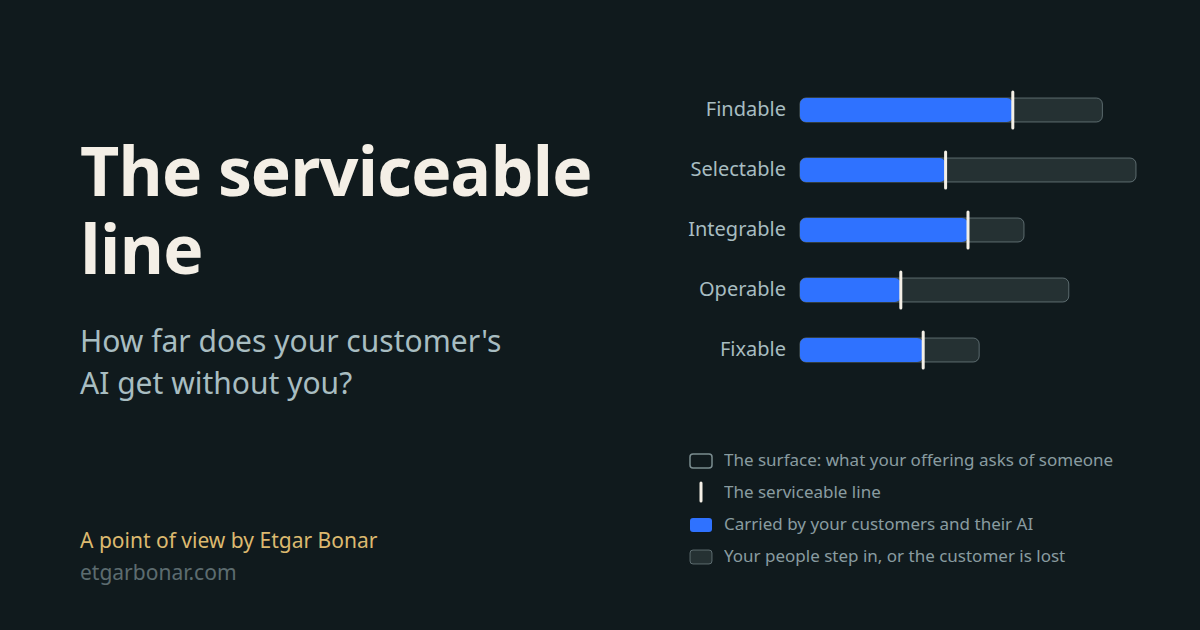
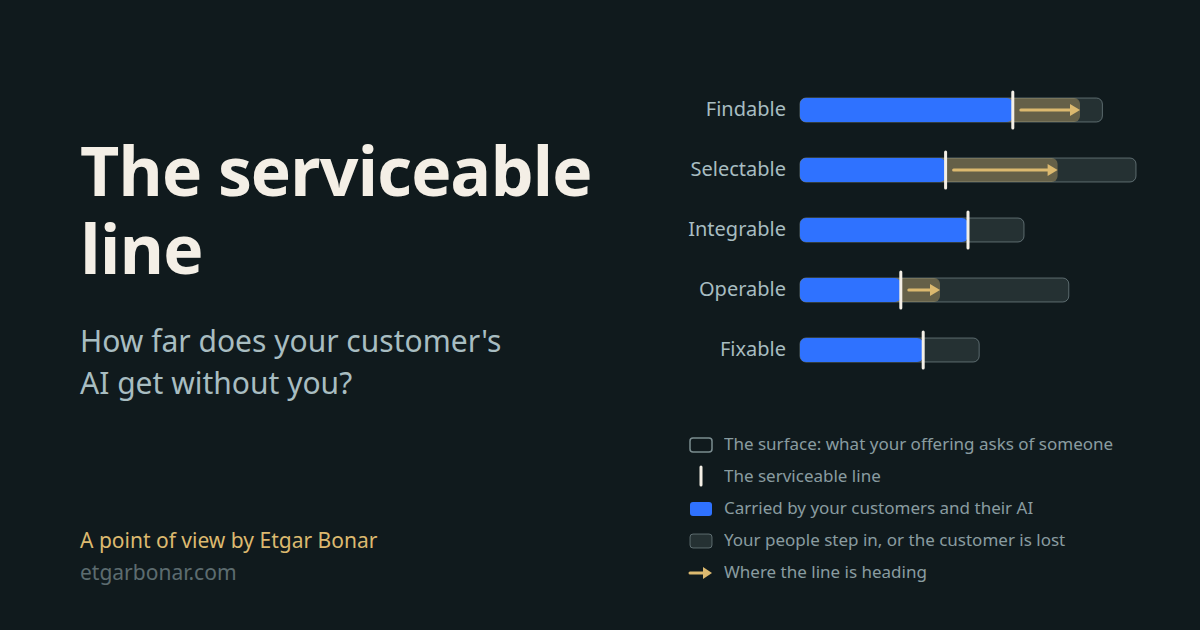
Serviceable line: question-only hero with the payoff line and gold growth
Main page hero: the full definition leaves the hero (Etgar: the question and the
definition repeated each other). The hero is now the title, the question and one
payoff line, "Move the line out, and you can win customers you used to walk away
from." The article opens with the first two sentences of the definition.
Gold arrows (where the line is heading) now on the main hero and the main social
card, on Findable and Selectable plus a small one on Operable (Etgar, 2026-10-05);
the shapes hero gets the same Operable arrow from the shared generator. Legend
item added, chart caption rewritten in plain words, card ?v=11 with updated alt.

diff --git a/serviceable-line/index.html b/serviceable-line/index.html
@@ -25,12 +25,12 @@
   <meta property="og:title" content="The Serviceable Line: How Far Does Your Customer's AI Get Without You?">
   <meta property="og:description" content="How far does your customer's AI get without you? The serviceable line is how far your customers, and increasingly their AI, get with your offering on their own.">
   <meta property="og:url" content="https://etgarbonar.com/serviceable-line/">
-  <meta property="og:image" content="https://etgarbonar.com/assets/serviceable-line-card.png?v=10">
-  <meta property="og:image:alt" content="The Serviceable Line: How far does your customer's AI get without you? Five bars, one per layer: Findable, Selectable, Integrable, Operable and Fixable, each as long as what the offering asks on that layer. Blue is how far your customers and their AI get on each; a white mark at the end of the blue is the serviceable line; past it, your people step in or the customer is lost. A point of view by Etgar Bonar">
+  <meta property="og:image" content="https://etgarbonar.com/assets/serviceable-line-card.png?v=11">
+  <meta property="og:image:alt" content="The Serviceable Line: How far does your customer's AI get without you? Five bars, one per layer: Findable, Selectable, Integrable, Operable and Fixable, each as long as what the offering asks on that layer. Blue is how far your customers and their AI get on each; a white mark at the end of the blue is the serviceable line; past it, your people step in or the customer is lost. Gold arrows on Findable, Selectable and Operable show where the line is heading. A point of view by Etgar Bonar">
   <meta name="twitter:card" content="summary_large_image">
   <meta name="twitter:title" content="The Serviceable Line: How Far Does Your Customer's AI Get Without You?">
   <meta name="twitter:description" content="How far does your customer's AI get without you? The serviceable line is how far your customers, and increasingly their AI, get with your offering on their own.">
-  <meta name="twitter:image" content="https://etgarbonar.com/assets/serviceable-line-card.png?v=10">
+  <meta name="twitter:image" content="https://etgarbonar.com/assets/serviceable-line-card.png?v=11">
   <script type="application/ld+json">
   {
     "@context": "https://schema.org",
@@ -85,28 +85,37 @@
         <div class="article-heading">
           <p class="eyebrow light">A point of view by Etgar Bonar</p>
           <h1>The serviceable line <span class="h1-sub">How far does your customer's AI get without you?</span></h1>
-          <p class="article-deck">The serviceable line is how far your customers, and increasingly their AI, get with your offering on their own. Past that point, either one of your people has to step in, or you lose the customer, often without seeing why: left out of an AI's answer, judged on a smaller version of what you offer, or quietly gone after the trial or the first bill. Move the line out, and you can win customers you used to walk away from, and stop the losses you never measured.</p>
+          <p class="article-deck">Move the line out, and you can win customers you used to walk away from.</p>
           <p class="article-meta">Published <time datetime="2026-08-29">29 August 2026</time> · Updated <time datetime="2026-10-05">5 October 2026</time> · 8 minute read</p>
         </div>
         <figure class="line-diagram">
 <!-- shapes:main-hero:start -->
-          <svg viewBox="0 0 600 320" role="img" aria-label="An illustrative offering, one bar per layer. Findable: long surface, most of it carried alone; Selectable: long surface, about half of it carried alone; Integrable: long surface, most of it carried alone; Operable: long surface, about half of it carried alone; Fixable: medium surface, most of it carried alone. A white mark on each bar is the serviceable line.">
+          <svg viewBox="0 0 600 320" role="img" aria-label="An illustrative offering, one bar per layer. Findable: long surface, most of it carried alone; Selectable: long surface, about half of it carried alone; Integrable: long surface, most of it carried alone; Operable: long surface, about half of it carried alone; Fixable: medium surface, most of it carried alone. A white mark on each bar is the serviceable line. Gold arrows on Findable, Selectable and Operable show where the line is heading.">
             <text x="118" y="42" text-anchor="end" class="ld-name">Findable</text>
             <rect x="132" y="25.0" width="399.6" height="22" rx="5.5" class="ld-bar-track"/>
+            <rect x="132" y="25.0" width="370.0" height="22" rx="5.5" class="ld-bar-gain"/>
             <rect x="132" y="25.0" width="281.2" height="22" rx="5.5" class="ld-bar-line"/>
             <line x1="413.2" y1="19.0" x2="413.2" y2="53.0" class="ld-bar-mark"/>
+            <line x1="421.2" y1="36" x2="492.0" y2="36" class="ld-bar-arrow"/>
+            <polygon points="502.0,36 492.0,30 492.0,42" class="ld-bar-arrowhead"/>
             <text x="118" y="104" text-anchor="end" class="ld-name">Selectable</text>
             <rect x="132" y="87.0" width="444.0" height="22" rx="5.5" class="ld-bar-track"/>
+            <rect x="132" y="87.0" width="340.4" height="22" rx="5.5" class="ld-bar-gain"/>
             <rect x="132" y="87.0" width="192.4" height="22" rx="5.5" class="ld-bar-line"/>
             <line x1="324.4" y1="81.0" x2="324.4" y2="115.0" class="ld-bar-mark"/>
+            <line x1="332.4" y1="98" x2="462.4" y2="98" class="ld-bar-arrow"/>
+            <polygon points="472.4,98 462.4,92 462.4,104" class="ld-bar-arrowhead"/>
             <text x="118" y="166" text-anchor="end" class="ld-name">Integrable</text>
             <rect x="132" y="149.0" width="296.0" height="22" rx="5.5" class="ld-bar-track"/>
             <rect x="132" y="149.0" width="222.0" height="22" rx="5.5" class="ld-bar-line"/>
             <line x1="354.0" y1="143.0" x2="354.0" y2="177.0" class="ld-bar-mark"/>
             <text x="118" y="228" text-anchor="end" class="ld-name">Operable</text>
             <rect x="132" y="211.0" width="355.2" height="22" rx="5.5" class="ld-bar-track"/>
+            <rect x="132" y="211.0" width="185.0" height="22" rx="5.5" class="ld-bar-gain"/>
             <rect x="132" y="211.0" width="133.2" height="22" rx="5.5" class="ld-bar-line"/>
             <line x1="265.2" y1="205.0" x2="265.2" y2="239.0" class="ld-bar-mark"/>
+            <line x1="273.2" y1="222" x2="307.0" y2="222" class="ld-bar-arrow"/>
+            <polygon points="317.0,222 307.0,216 307.0,228" class="ld-bar-arrowhead"/>
             <text x="118" y="290" text-anchor="end" class="ld-name">Fixable</text>
             <rect x="132" y="273.0" width="236.8" height="22" rx="5.5" class="ld-bar-track"/>
             <rect x="132" y="273.0" width="162.8" height="22" rx="5.5" class="ld-bar-line"/>
@@ -118,13 +127,15 @@
             <li class="ld-key-mark">The serviceable line</li>
             <li class="ld-key-line">Carried by your customers and their&nbsp;AI</li>
             <li class="ld-key-gap">Your people step in, or the customer is lost</li>
+            <li class="ld-key-move">Where the line is heading</li>
           </ul>
-          <p class="ld-note">Illustrative. Each bar is one layer: Findable, Selectable, Integrable, Operable, Fixable, as long as what this offering asks on that layer. Blue is how far your customers, and increasingly their AI, get with your offering on their own, and the white mark is the serviceable line. Past it, your people step in or the customer is lost. No two offerings ask the same: <a href="/serviceable-line/shapes/">see the shape of the line</a>.</p>
+          <p class="ld-note">Illustrative, for one example offering. Each bar is one layer (Findable, Selectable, Integrable, Operable, Fixable), and its length is how much work that layer takes. Blue is what your customers and their AI carry alone; the white mark is the serviceable line. Gold is where it is heading. Other offerings have different bars: <a href="/serviceable-line/shapes/">see six examples</a>.</p>
         </figure>
       </header>
 
       <div class="article-body">
-        <p class="lede">Customers have been getting further on their own for a decade: finding you, comparing you, connecting you, running the product, fixing it when it breaks. What is changing is who is doing it. Increasingly it is a machine. I spent most of those years on the seller's side of that shift, at Amazon, Taboola and Rapyd.</p>
+        <p class="lede">The serviceable line is how far your customers, and increasingly their AI, get with your offering on their own. Past that point, either one of your people has to step in, or you lose the customer, often without seeing why: left out of an AI's answer, judged on a smaller version of what you offer, or quietly gone after the trial or the first bill.</p>
+        <p>Customers have been getting further on their own for a decade: finding you, comparing you, connecting you, running the product, fixing it when it breaks. What is changing is who is doing it. Increasingly it is a machine. I spent most of those years on the seller's side of that shift, at Amazon, Taboola and Rapyd.</p>
         <p class="term-context"><em>Serviceable</em> as in serviceable available market: the demand a company can actually reach.</p>
         <p>Both sales-led and product-led motions are losing ground to this silent part of the journey. The company does not own the machine doing the work. It often cannot see the interaction. And rarely does one leader own whether the machine's picture of the company matches what the company actually is.</p>
 

diff --git a/serviceable-line/shapes/index.html b/serviceable-line/shapes/index.html
@@ -19,7 +19,7 @@
   <link rel="apple-touch-icon" href="/assets/icon-180.png">
   <meta property="og:type" content="article">
   <meta property="article:published_time" content="2026-10-03">
-  <meta property="article:modified_time" content="2026-10-04">
+  <meta property="article:modified_time" content="2026-10-05">
   <meta property="og:site_name" content="Etgar Bonar">
   <meta property="og:title" content="The Shape of the Serviceable Line: Not Every Offering Has Five Layers">
   <meta property="og:description" content="How far does your customer's AI get without you? The five layers are not the same size for every offering, so the serviceable line has a shape, and so does the work around it.">
@@ -42,7 +42,7 @@
         "description": "How far does your customer's AI get without you? The five layers are not the same size for every offering, so the serviceable line has a shape, and so does the work around it.",
         "inLanguage": "en",
         "datePublished": "2026-10-03",
-        "dateModified": "2026-10-04",
+        "dateModified": "2026-10-05",
         "author": {"@id": "https://etgarbonar.com/#etgar"},
         "publisher": {"@id": "https://etgarbonar.com/#etgar"},
         "isPartOf": {"@id": "https://etgarbonar.com/#website"},
@@ -77,7 +77,7 @@
         </div>
         <figure class="line-diagram shape-hero">
 <!-- shapes:hero:start -->
-          <svg viewBox="0 0 600 320" role="img" aria-label="An illustrative offering, one bar per layer. Findable: long surface, most of it carried alone; Selectable: long surface, about half of it carried alone; Integrable: long surface, most of it carried alone; Operable: long surface, about half of it carried alone; Fixable: medium surface, most of it carried alone. A white mark on each bar is the serviceable line. Gold arrows on Findable and Selectable show where the line is heading.">
+          <svg viewBox="0 0 600 320" role="img" aria-label="An illustrative offering, one bar per layer. Findable: long surface, most of it carried alone; Selectable: long surface, about half of it carried alone; Integrable: long surface, most of it carried alone; Operable: long surface, about half of it carried alone; Fixable: medium surface, most of it carried alone. A white mark on each bar is the serviceable line. Gold arrows on Findable, Selectable and Operable show where the line is heading.">
             <text x="118" y="42" text-anchor="end" class="ld-name">Findable</text>
             <rect x="132" y="25.0" width="399.6" height="22" rx="5.5" class="ld-bar-track"/>
             <rect x="132" y="25.0" width="370.0" height="22" rx="5.5" class="ld-bar-gain"/>
@@ -98,8 +98,11 @@
             <line x1="354.0" y1="143.0" x2="354.0" y2="177.0" class="ld-bar-mark"/>
             <text x="118" y="228" text-anchor="end" class="ld-name">Operable</text>
             <rect x="132" y="211.0" width="355.2" height="22" rx="5.5" class="ld-bar-track"/>
+            <rect x="132" y="211.0" width="185.0" height="22" rx="5.5" class="ld-bar-gain"/>
             <rect x="132" y="211.0" width="133.2" height="22" rx="5.5" class="ld-bar-line"/>
             <line x1="265.2" y1="205.0" x2="265.2" y2="239.0" class="ld-bar-mark"/>
+            <line x1="273.2" y1="222" x2="307.0" y2="222" class="ld-bar-arrow"/>
+            <polygon points="317.0,222 307.0,216 307.0,228" class="ld-bar-arrowhead"/>
             <text x="118" y="290" text-anchor="end" class="ld-name">Fixable</text>
             <rect x="132" y="273.0" width="236.8" height="22" rx="5.5" class="ld-bar-track"/>
             <rect x="132" y="273.0" width="162.8" height="22" rx="5.5" class="ld-bar-line"/>
@@ -113,7 +116,7 @@
             <li class="ld-key-gap">Your people step in, or the customer is lost</li>
             <li class="ld-key-move">Where the line is heading</li>
           </ul>
-          <p class="ld-note">Illustrative, on a shared 0 to 3 scale: the same offering as on the main page. A bar's length is what the offering asks on that layer. What matters is the grey on each bar, the gap, not which bar is longest. The gold arrows mark where the line is heading on Findable and Selectable.</p>
+          <p class="ld-note">Illustrative, on a shared 0 to 3 scale: the same offering as on the main page. A bar's length is what the offering asks on that layer. What matters is the grey on each bar, the gap, not which bar is longest. The gold arrows mark where the line is heading on Findable and Selectable, and a little on Operable, which moves last.</p>
         </figure>
       </header>
 

diff --git a/scripts/build-line-shapes.py b/scripts/build-line-shapes.py
@@ -53,13 +53,13 @@ GROWTH = [
 ]
 
 # The hero offering. Bar length is the surface on every hero, so the layers differ in length from the
-# first screen (Etgar, 2026-10-04). The main page hero and its social card stop there: surface, the
-# blue carried part and the white mark (the serviceable line). The shapes page hero adds gold arrows
-# for where the line is heading on Findable and Selectable (Etgar, 2026-10-03). The values do not fall steadily from top to bottom, so
+# first screen (Etgar, 2026-10-04). Both heroes and the main social card carry gold arrows for where the
+# line is heading: on Findable and Selectable (Etgar, 2026-10-03), plus a small one on Operable, which
+# moves last (Etgar, 2026-10-05). The values do not fall steadily from top to bottom, so
 # the five bars never read as a trend or a ranking.
 HERO_SURFACE = [2.7, 3.0, 2.0, 2.4, 1.6]
 HERO_LINE = [1.9, 1.3, 1.5, 0.9, 1.1]
-HERO_ARROWS = {0: 2.5, 1: 2.3}
+HERO_ARROWS = {0: 2.5, 1: 2.3, 3: 1.25}
 assert all(HERO_LINE[i] < v <= HERO_SURFACE[i] for i, v in HERO_ARROWS.items())
 SIMPLE = (HERO_SURFACE, HERO_LINE, HERO_LINE)
 FULL = (HERO_SURFACE, HERO_LINE, HERO_LINE)
@@ -174,7 +174,7 @@ def blocks():
             "growth": grid(GROWTH, "shape-grid shape-pair"),
         },
         MAIN_PAGE: {
-            "main-hero": svg("An illustrative offering", *SIMPLE, kind="hero"),
+            "main-hero": svg("An illustrative offering", *FULL, kind="hero", arrows=HERO_ARROWS),
         },
     }
 
@@ -191,17 +191,19 @@ def legend_row(x, y, kind, text):
         "gap": f'<rect x="{x}" y="{y - 12}" width="22" height="14" rx="3" fill="{MINT}" fill-opacity=".14" stroke="{MINT}" stroke-opacity=".45"/>',
         "surface": f'<rect x="{x}" y="{y - 12}" width="22" height="14" rx="3" fill="none" stroke="{MINT}" stroke-opacity=".7" stroke-width="1.5"/>',
         "mark": f'<line x1="{x + 11}" y1="{y - 15}" x2="{x + 11}" y2="{y + 3}" stroke="{PAPER}" stroke-width="3" stroke-linecap="round"/>',
+        "move": f'<line x1="{x}" y1="{y - 5}" x2="{x + 14}" y2="{y - 5}" stroke="{GOLD}" stroke-width="3" stroke-linecap="round"/><polygon points="{x + 22},{y - 5} {x + 13},{y - 11} {x + 13},{y + 1}" fill="{GOLD}"/>',
     }[kind]
     return f'  {swatch}\n  <text x="{x + 34}" y="{y}" {FONT} font-size="17" fill="{MINT}" opacity=".8">{text}</text>'
 
 
 def main_card():
-    rows = bar_rows(*SIMPLE, x0=800, y0=110, unit=112, step=60, h=24, style=CARD_STYLE)
+    rows = bar_rows(*FULL, x0=800, y0=110, unit=112, step=60, h=24, style=CARD_STYLE, arrows=HERO_ARROWS)
     body = "\n".join(["  " + r for r in rows] + [
-        legend_row(690, 466, "surface", "The surface: what your offering asks of someone"),
-        legend_row(690, 498, "mark", "The serviceable line"),
-        legend_row(690, 530, "line", "Carried by your customers and their AI"),
-        legend_row(690, 562, "gap", "Your people step in, or the customer is lost"),
+        legend_row(690, 450, "surface", "The surface: what your offering asks of someone"),
+        legend_row(690, 482, "mark", "The serviceable line"),
+        legend_row(690, 514, "line", "Carried by your customers and their AI"),
+        legend_row(690, 546, "gap", "Your people step in, or the customer is lost"),
+        legend_row(690, 578, "move", "Where the line is heading"),
         f'  <text x="80" y="196" {FONT} font-size="68" font-weight="700" letter-spacing="-1" fill="{PAPER}">The serviceable</text>',
         f'  <text x="80" y="274" {FONT} font-size="68" font-weight="700" letter-spacing="-1" fill="{PAPER}">line</text>',
         f'  <text x="80" y="352" {FONT} font-size="30" fill="{MINT}">How far does your customer\'s</text>',
@@ -212,7 +214,8 @@ def main_card():
     return card_svg("The serviceable line",
                     "Five bars, one per layer: Findable, Selectable, Integrable, Operable and Fixable, each as long as what the offering asks on that layer. Blue is how far your customers "
                     "and their AI get on each; a white mark at the end of the blue is the serviceable line; past it, your people step in "
-                    "or the customer is lost. How far does your customer's AI get without you? A point of view by Etgar Bonar.", body)
+                    "or the customer is lost. Gold arrows on Findable, Selectable and Operable show where the line is heading. "
+                    "How far does your customer's AI get without you? A point of view by Etgar Bonar.", body)
 
 
 def shapes_card():

diff --git a/serviceable-line/index.md b/serviceable-line/index.md
@@ -10,7 +10,7 @@ A point of view by Etgar Bonar
 
 # The serviceable line How far does your customer's AI get without you?
 
-The serviceable line is how far your customers, and increasingly their AI, get with your offering on their own. Past that point, either one of your people has to step in, or you lose the customer, often without seeing why: left out of an AI's answer, judged on a smaller version of what you offer, or quietly gone after the trial or the first bill. Move the line out, and you can win customers you used to walk away from, and stop the losses you never measured.
+Move the line out, and you can win customers you used to walk away from.
 
 Published 29 August 2026 · Updated 5 October 2026 · 8 minute read
 
@@ -18,8 +18,11 @@ Published 29 August 2026 · Updated 5 October 2026 · 8 minute read
 - The serviceable line
 - Carried by your customers and their AI
 - Your people step in, or the customer is lost
+- Where the line is heading
 
-Illustrative. Each bar is one layer: Findable, Selectable, Integrable, Operable, Fixable, as long as what this offering asks on that layer. Blue is how far your customers, and increasingly their AI, get with your offering on their own, and the white mark is the serviceable line. Past it, your people step in or the customer is lost. No two offerings ask the same: [see the shape of the line](https://etgarbonar.com/serviceable-line/shapes/).
+Illustrative, for one example offering. Each bar is one layer (Findable, Selectable, Integrable, Operable, Fixable), and its length is how much work that layer takes. Blue is what your customers and their AI carry alone; the white mark is the serviceable line. Gold is where it is heading. Other offerings have different bars: [see six examples](https://etgarbonar.com/serviceable-line/shapes/).
+
+The serviceable line is how far your customers, and increasingly their AI, get with your offering on their own. Past that point, either one of your people has to step in, or you lose the customer, often without seeing why: left out of an AI's answer, judged on a smaller version of what you offer, or quietly gone after the trial or the first bill.
 
 Customers have been getting further on their own for a decade: finding you, comparing you, connecting you, running the product, fixing it when it breaks. What is changing is who is doing it. Increasingly it is a machine. I spent most of those years on the seller's side of that shift, at Amazon, Taboola and Rapyd.
 

diff --git a/serviceable-line/shapes/index.md b/serviceable-line/shapes/index.md
@@ -20,7 +20,7 @@ Published 3 October 2026 · 7 minute read
 - Your people step in, or the customer is lost
 - Where the line is heading
 
-Illustrative, on a shared 0 to 3 scale: the same offering as on the main page. A bar's length is what the offering asks on that layer. What matters is the grey on each bar, the gap, not which bar is longest. The gold arrows mark where the line is heading on Findable and Selectable.
+Illustrative, on a shared 0 to 3 scale: the same offering as on the main page. A bar's length is what the offering asks on that layer. What matters is the grey on each bar, the gap, not which bar is longest. The gold arrows mark where the line is heading on Findable and Selectable, and a little on Operable, which moves last.
 
 Every offering asks something of the person buying it. Some ask almost nothing. Some ask a great deal, before the purchase and long after it.
 
